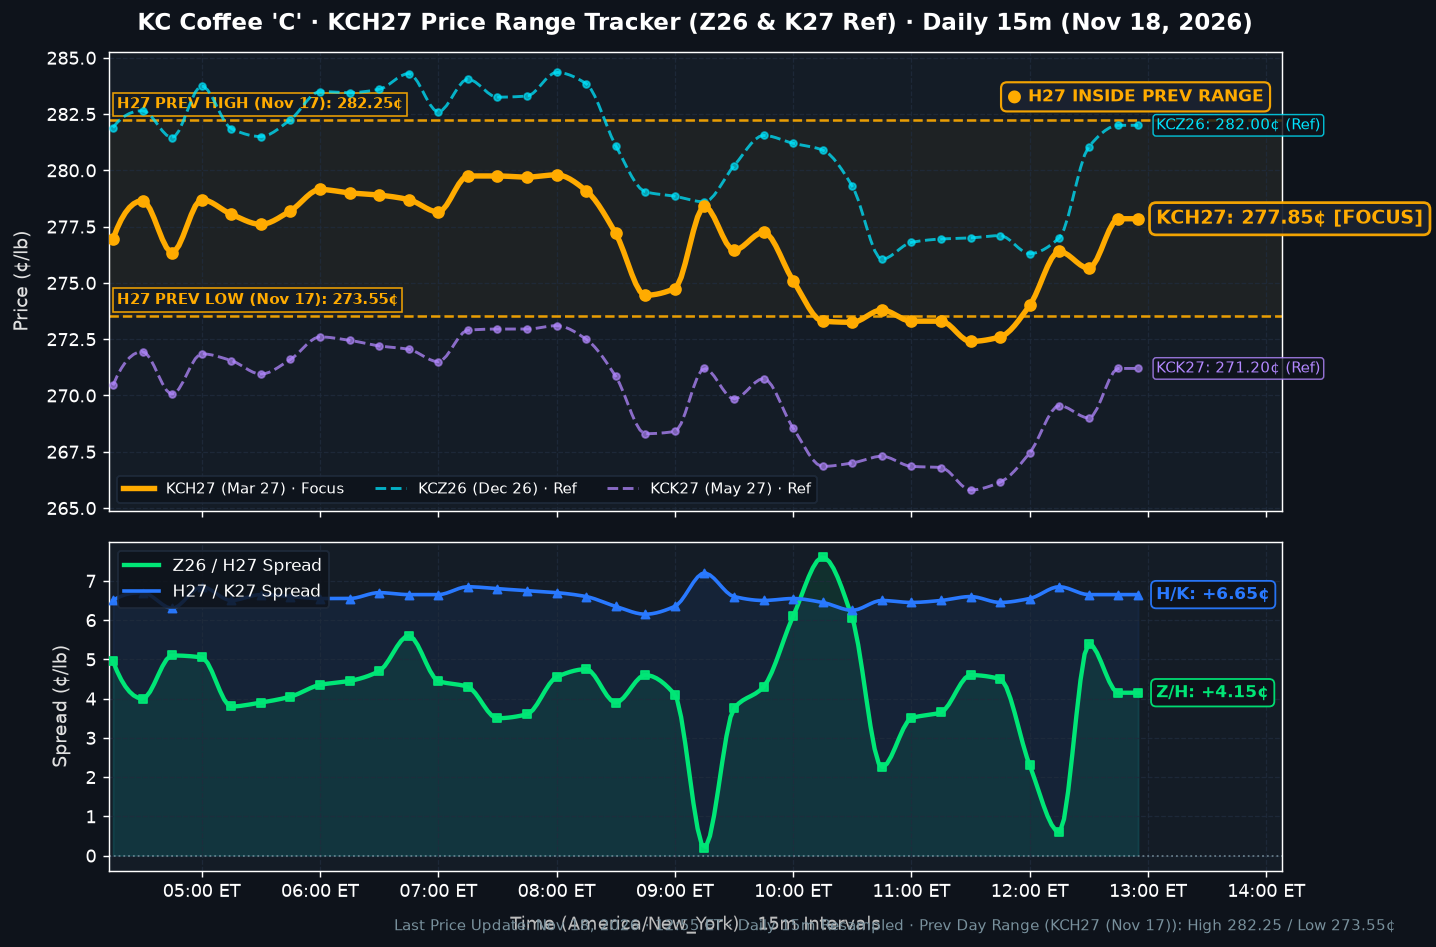
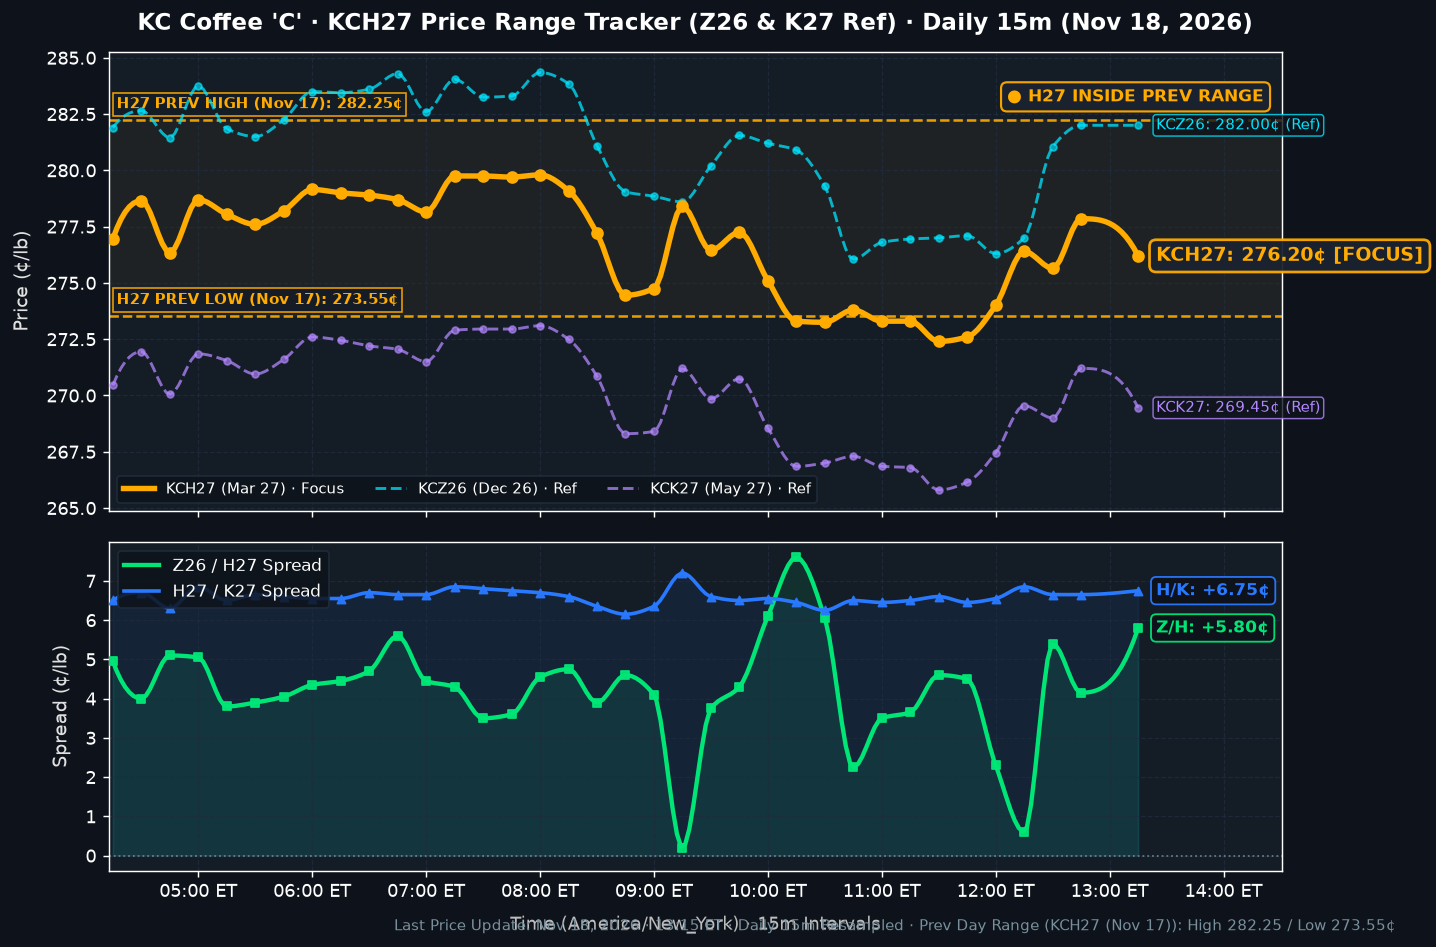
fix(cqg): wait for QSS widget on CQG login and support [H27, K27, N27] watchlist after Z26 roll

diff --git a/src/kcquant/cqg.py b/src/kcquant/cqg.py
@@ -128,6 +128,57 @@ def _create_headless_driver():
         return None
 
 
+def _ensure_cqg_authenticated(driver, creds: dict) -> bool:
+    """Ensure the CQG Desktop driver is logged in and the QSS quote widget is loaded."""
+    from selenium.webdriver.common.by import By
+
+    timeout = max(float(creds.get("timeout", 15.0)), 12.0)
+    max_polls = int(timeout / 0.3)
+
+    # 1. Wait until either QSS quotes are already visible OR the logon form appears
+    for _ in range(max_polls):
+        qss = driver.find_elements(By.TAG_NAME, "wpfe-quote-spread-sheet")
+        if qss and any("KCE" in (el.text or "") for el in qss):
+            return True
+        if driver.find_elements(By.NAME, "userName"):
+            break
+        time.sleep(0.3)
+
+    # 2. If logon form is present, submit credentials
+    user_inputs = driver.find_elements(By.NAME, "userName")
+    if user_inputs:
+        user_input = user_inputs[0]
+        pass_input = driver.find_element(By.NAME, "password")
+        user_input.clear()
+        user_input.send_keys(creds["username"])
+        pass_input.clear()
+        pass_input.send_keys(creds["password"])
+
+        submit_btn = None
+        for btn in driver.find_elements(By.TAG_NAME, "button"):
+            text = (btn.text or "").strip().lower()
+            btype = btn.get_attribute("type")
+            if "log on" in text or "login" in text or btype == "submit":
+                submit_btn = btn
+                break
+
+        if submit_btn:
+            submit_btn.click()
+        else:
+            pass_input.submit()
+
+    # 3. Poll until redirected to desktop/main AND QSS widget renders live KCE prices
+    for _ in range(max_polls + 10):
+        time.sleep(0.3)
+        if "desktop/main" in driver.current_url.lower():
+            qss = driver.find_elements(By.TAG_NAME, "wpfe-quote-spread-sheet")
+            if qss and any("KCE" in (el.text or "") and any(ch.isdigit() for ch in (el.text or "")) for el in qss):
+                time.sleep(0.4)
+                return True
+
+    return False
+
+
 def get_warm_cqg_driver(force_restart: bool = False):
     """Retrieve or initialize a persistent headless Chrome driver logged in to CQG Desktop.
 
@@ -140,65 +191,48 @@ def get_warm_cqg_driver(force_restart: bool = False):
 
     if _SHARED_DRIVER is not None and not force_restart:
         try:
-            # Check if driver is still alive
+            from selenium.webdriver.common.by import By
             _ = _SHARED_DRIVER.current_url
-            return _SHARED_DRIVER
+            qss = _SHARED_DRIVER.find_elements(By.TAG_NAME, "wpfe-quote-spread-sheet")
+            if qss and any("KCE" in (el.text or "") for el in qss):
+                return _SHARED_DRIVER
+            if _ensure_cqg_authenticated(_SHARED_DRIVER, creds):
+                return _SHARED_DRIVER
         except Exception:
-            try:
-                _SHARED_DRIVER.quit()
-            except Exception:
-                pass
-            _SHARED_DRIVER = None
+            pass
+        try:
+            _SHARED_DRIVER.quit()
+        except Exception:
+            pass
+        _SHARED_DRIVER = None
+
+    if _SHARED_DRIVER is not None and force_restart:
+        try:
+            _SHARED_DRIVER.quit()
+        except Exception:
+            pass
+        _SHARED_DRIVER = None
 
     driver = _create_headless_driver()
     if driver is None:
         return None
 
     try:
-        from selenium.webdriver.common.by import By
-        from selenium.webdriver.support.ui import WebDriverWait
-        from selenium.webdriver.support import expected_conditions as EC
-
-        timeout = min(creds["timeout"], 10.0)
-        driver.set_page_load_timeout(timeout + 6)
+        timeout = max(float(creds.get("timeout", 15.0)), 12.0)
+        driver.set_page_load_timeout(timeout + 10)
         driver.get(creds["url"])
-        wait = WebDriverWait(driver, timeout)
-        time.sleep(0.8)
 
-        if "logon" in driver.current_url.lower() or driver.find_elements(By.NAME, "userName"):
-            user_input = wait.until(EC.presence_of_element_located((By.NAME, "userName")))
-            pass_input = driver.find_element(By.NAME, "password")
-            user_input.clear()
-            user_input.send_keys(creds["username"])
-            pass_input.clear()
-            pass_input.send_keys(creds["password"])
+        if _ensure_cqg_authenticated(driver, creds):
+            _SHARED_DRIVER = driver
+            return _SHARED_DRIVER
 
-            submit_btn = None
-            for btn in driver.find_elements(By.TAG_NAME, "button"):
-                text = (btn.text or "").strip().lower()
-                btype = btn.get_attribute("type")
-                if "log on" in text or "login" in text or btype == "submit":
-                    submit_btn = btn
-                    break
+        # Even if QSS took extra time, keep driver if on desktop/main
+        if "desktop/main" in driver.current_url.lower():
+            _SHARED_DRIVER = driver
+            return _SHARED_DRIVER
 
-            if submit_btn:
-                submit_btn.click()
-            else:
-                pass_input.submit()
-
-            for _ in range(int(timeout * 4)):
-                time.sleep(0.25)
-                if "desktop/main" in driver.current_url:
-                    break
-
-            # Fast poll for QSS quotes widget instead of fixed 3s sleep
-            for _ in range(12):
-                time.sleep(0.25)
-                if driver.find_elements(By.TAG_NAME, "wpfe-quote-spread-sheet"):
-                    break
-
-        _SHARED_DRIVER = driver
-        return _SHARED_DRIVER
+        driver.quit()
+        return None
     except Exception as e:
         logger.warning(f"Error creating warm CQG driver: {e}")
         try:
@@ -221,8 +255,8 @@ def fetch_cqg_quotes(contracts: list[str] | None = None, max_retries: int = 2) -
     """Extract price quotes for requested contracts from the warm CQG Desktop session.
 
     Reuses the persistent warm headless Chrome driver (`_SHARED_DRIVER`) so quote reads
-    complete in < 200ms. If reading fails or symbols are missing, retries up to `max_retries`
-    times (1-2 retries) before returning None.
+    complete in < 200ms. If reading fails, retries up to `max_retries` times (1-2 retries)
+    before returning None.
     """
     creds = get_cqg_credentials()
     if not creds:
@@ -232,9 +266,9 @@ def fetch_cqg_quotes(contracts: list[str] | None = None, max_retries: int = 2) -
     cqg_targets = {c: to_cqg_symbol(c) for c in target_contracts}
 
     for attempt in range(max_retries + 1):
-        force_restart = (attempt == max_retries and attempt > 0)
-        if attempt > 0 and not force_restart:
-            time.sleep(0.6)
+        force_restart = (attempt > 0)
+        if attempt > 0:
+            time.sleep(0.5)
 
         driver = get_warm_cqg_driver(force_restart=force_restart)
         if driver is None:
@@ -249,8 +283,9 @@ def fetch_cqg_quotes(contracts: list[str] | None = None, max_retries: int = 2) -
             qss_results = _extract_qss_quotes(driver, now_ny, time_str, datetime_str)
             if qss_results:
                 matched = {k: v for k, v in qss_results.items() if k in target_contracts}
-                if len(matched) == len(target_contracts):
-                    return matched
+                # Return immediately if all targets found OR active H27 + K27 curve found in QSS
+                if len(matched) == len(target_contracts) or ("KCH27" in qss_results and "KCK27" in qss_results):
+                    return matched if len(matched) > 0 else qss_results
 
             results: dict[str, dict] = dict(qss_results or {})
             for ice_sym, cqg_sym in cqg_targets.items():
@@ -260,9 +295,7 @@ def fetch_cqg_quotes(contracts: list[str] | None = None, max_retries: int = 2) -
                         results[ice_sym] = quote
 
             matched = {k: v for k, v in results.items() if k in target_contracts}
-            if len(matched) == len(target_contracts):
-                return matched
-            if len(matched) > 0 and attempt == max_retries:
+            if len(matched) > 0:
                 return matched
         except Exception as e:
             logger.warning(f"CQG quote attempt {attempt + 1}/{max_retries + 1} failed: {e}")

diff --git a/src/kcquant/quotes.py b/src/kcquant/quotes.py
@@ -73,25 +73,55 @@ def fetch_live_zh_quotes(max_retries: int = 2) -> dict | None:
 
 
 def fetch_live_curve_quotes(max_retries: int = 2) -> dict | None:
-    """Fetch concurrent live CQG quotes for KCZ26, KCH27, and KCK27 (retrying up to max_retries)."""
+    """Fetch concurrent live CQG quotes for KCH27, KCK27 (and KCZ26 / KCN27) from CQG Desktop."""
     try:
         from kcquant.cqg import fetch_cqg_quotes
-        cqg_res = fetch_cqg_quotes(["KCZ26", "KCH27", "KCK27"], max_retries=max_retries)
-        if cqg_res and "KCZ26" in cqg_res and "KCH27" in cqg_res and "KCK27" in cqg_res:
-            z_q = cqg_res["KCZ26"]
+        cqg_res = fetch_cqg_quotes(["KCZ26", "KCH27", "KCK27", "KCN27"], max_retries=max_retries)
+        if cqg_res and "KCH27" in cqg_res and "KCK27" in cqg_res:
             h_q = cqg_res["KCH27"]
             k_q = cqg_res["KCK27"]
+
+            if "KCZ26" in cqg_res:
+                z_q = cqg_res["KCZ26"]
+            else:
+                # If CQG QSS watchlist has rolled from Z26 to [H27, K27, N27], preserve last reference Z26
+                ref_z_px = round(h_q["price"] + 6.00, 2)
+                cache_json = ROOT / "output" / "monitor" / "latest_kc_curve_prices.json"
+                if cache_json.exists():
+                    try:
+                        with open(cache_json) as f:
+                            cached = json.load(f)
+                        if "kcz26" in cached and float(cached["kcz26"]) > 0:
+                            ref_z_px = float(cached["kcz26"])
+                    except Exception:
+                        pass
+                z_q = {
+                    "contract": "KCZ26",
+                    "cqg_symbol": "KCEZ26",
+                    "price": ref_z_px,
+                    "prev_close": ref_z_px,
+                    "high": ref_z_px,
+                    "low": ref_z_px,
+                    "volume": 0,
+                    "datetime_ny": h_q["datetime_ny"],
+                    "time_str": h_q["time_str"],
+                    "source": h_q["source"],
+                }
+
             spread_zh = round(z_q["price"] - h_q["price"], 2)
             spread_hk = round(h_q["price"] - k_q["price"], 2)
-            return {
+            res = {
                 "kcz26": z_q,
                 "kch27": h_q,
                 "kck27": k_q,
                 "spread_zh": spread_zh,
                 "spread_hk": spread_hk,
-                "quote_time_ny": z_q["datetime_ny"],
-                "source": f"Live Market (CQG Desktop · {z_q['time_str']})"
+                "quote_time_ny": h_q["datetime_ny"],
+                "source": f"Live Market (CQG Desktop · {h_q['time_str']})"
             }
+            if "KCN27" in cqg_res:
+                res["kcn27"] = cqg_res["KCN27"]
+            return res
     except Exception:
         pass
     return None
